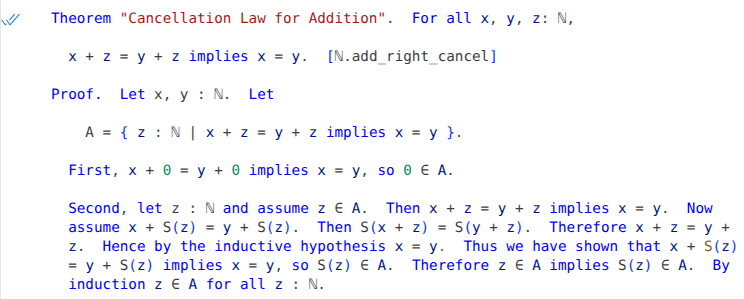
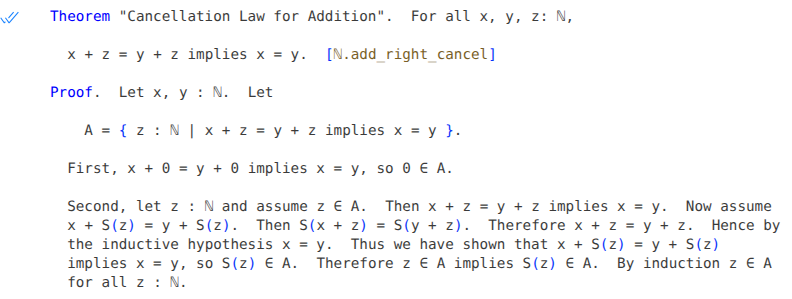
Perform semantic highlighting

diff --git a/README.md b/README.md
@@ -22,7 +22,11 @@ Natural Lean is in an __early stage of development__ and is not a practical tool
 - [Types](#types)
 - [Natural names](#natural-names)
 - [Tactics](#tactics)
+- [Visual Studio Code integration](#visual-studio-code-integration)
 - [Hints and tips](#hints-and-tips)
+  - [Proving steps](#proving-steps)
+  - [Grammar](#grammar)
+  - [Debugging](#debugging)
      
 (Tip: If you are viewing this document on GitHub's web site, you can also click the table of contents icon in the upper right to navigate through the various sections.)
 
@@ -404,13 +408,47 @@ As described above, an assertion or theorem may have a reason indicating one or 
 But x + S(z) ≠ x by ℕ.not_succ_add and ℕ.add_comm.
 ```
 
-In this situation Natural Lean will invoke the tactic `default_apply` with the given theorem names, e.g. using the Lean code `(by default_apply ℕ.not_succ_add ℕ.add_comm)`.  `default_apply` is a tactic that calls each of `apply_rules`, `grind` and `aesop` in turn, passing the given theorems as arguments.  (I also intend to make this tactic configurable in the future.)
+In this situation Natural Lean will invoke the tactic `default_apply` with the given theorem names  `default_apply` is a tactic that calls each of `apply_rules`, `grind` and `aesop` in turn, passing the given theorems as arguments.  (I also intend to make this tactic configurable in the future.)
 
-### Hints and tips
+### Visual Studio Code integration
 
 You may notice that Visual Studio Code doesn't display a double checkmark beside natural-language theorems that have been proven.  That's due to a [bug](https://github.com/leanprover/lean4/issues/15044) in Lean.  I have submitted a [pull request](https://github.com/leanprover/lean4/pull/15045) that will fix it, so hopefully that will land soon.
 
-The `try?` tactic is very useful.  If a proof step fails, try adding `by [try?]`to that step.  If that succeeds, the information in the InfoView will often reveal which theorem(s) you will need to use to prove the step without `try?`.  For example, if the InfoView shows
+When you first open a file with Natural Lean code, Visual Studio Code will display its default syntax highlighting, which colors many words in natural-language text:
+
+![default highlighting](images/default_highlighting.png)
+
+In my opinion this is not easy to read.  As soon as you make any edit to the file, Natural Lean's own syntax highlighting will appear instead:
+
+![natural highlighting](images/natural_highlighting.png)
+
+Instead of editing the file, you can alternatively produce the natural highlighting by switching to any other tab in the same editor pane, then switching back.
+
+It would be nicer if the natural highlighting appeared as soon as you open the file, however a [bug in Lean](https://github.com/leanprover/lean4/issues/15118) currently prevents this from happening.
+
+Natural Lean's syntax highlighting shows natural-language text using the token type `operator`, which by default appears as pure black (in a light theme) or pure white (in a dark theme).  In my opinion this is a bit too strong.  To dim the text a bit, include this in your `settings.json` file:
+
+```
+    "editor.semanticTokenColorCustomizations": {
+        "[*Light*]": {
+            "rules": {
+                "operator:lean4": "#3B3B3B"
+            }
+        }, "[*Dark*]": {
+            "rules": {
+                "operator:lean4": "#C4C4C4"
+            }
+        }
+    },
+```
+
+(It would be nicer to have a separate token type such as `natural` for natural-language text, however Lean does not allow a library to add custom token types, so we fall back on `operator` instead.)
+
+### Hints and tips
+
+#### Proving steps
+
+The `try?` tactic is very useful.  If a proof step fails, try adding `by [try?]`to that step.  If that succeeds, the information in the InfoView may reveal which theorem(s) you will need to use to prove the step without `try?`.  For example, if the InfoView shows
 
   ```
   Try these:
@@ -430,6 +468,10 @@ Try these:
 
 Then  you might be able to prove the step by writing `by` followed by a list of all of those theorems .  However, that seems awkward: the whole point of Natural Lean is that proofs should be readable, and it may not be clear how the theorems in a list such as this can be combined to prove the step.  So in this situation it may be better to break the step into smaller steps, producing a readable proof.
 
+#### Grammar
+
 Natural Lean is currently quite lax about plurals, articles, and capitalization, so at the moment you may be able to get away with writing ungrammatical English such as "Let a and b be natural number".  I plan to check grammar more strictly in the future.
+
+#### Debugging
 
 If you would like to see the Lean code that is generated from any definition or theorem in Natural Lean, write `set_option trace.natural.proof true in` immediately before the definition or theorem.  The Lean code will be visible in the InfoView window in Visual Studio Code.
